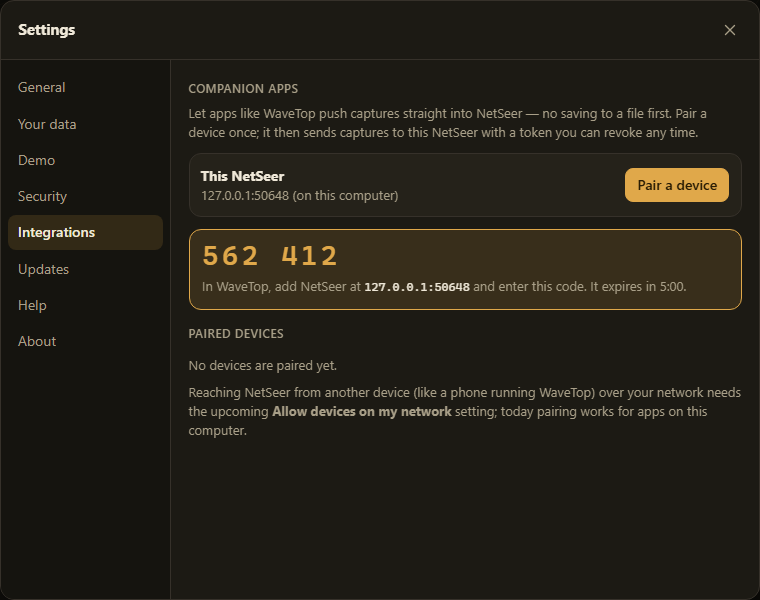
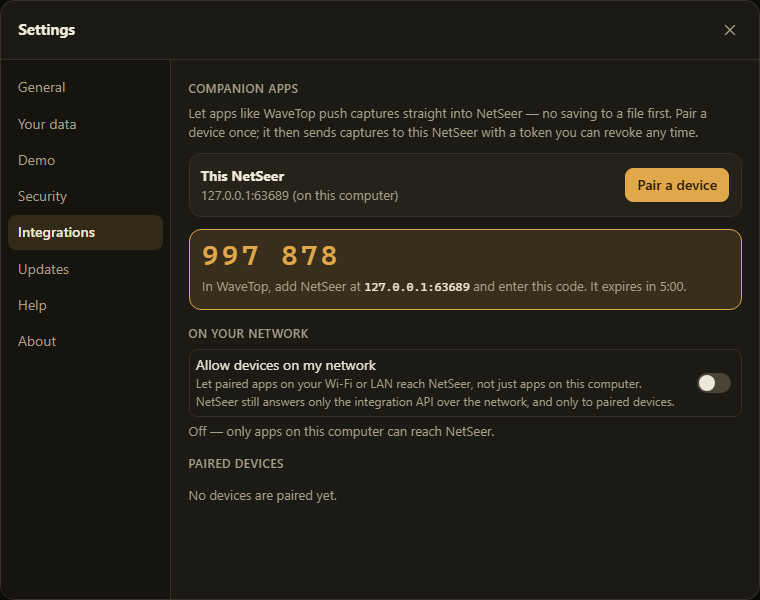
Integration API: opt-in LAN binding so apps on your network can reach NetSeer
Adds the 'Allow devices on my network' setting so a paired app on another
device (WaveTop on a phone) can pair and push over Wi-Fi/LAN — not just
apps on this computer.

- integration.py: persisted lan_enabled setting + lan_addresses().
- Launchers (cli.py, desktop.py) bind 0.0.0.0 when enabled, else loopback,
  and record NETSEER_BOUND_HOST.
- web.py: a LAN guard middleware that, only when actually bound to the LAN,
  limits non-local clients to the token-gated integration API (info, pair,
  ingest, live) — the UI and control endpoints stay local-only. The events
  WebSocket is local-only too. GET/POST /api/v1/network drive the setting.
- Settings → Integrations: an 'Allow devices on my network' toggle that
  shows the LAN address to use and a restart hint; pairing shows that
  address.
- Docs + screenshot refreshed; integration-api status updated.
- tests: the LAN guard allowlist, local bypass, loopback no-op, and the
  network setting (115 passed).

Verified live: toggled on, restarted, server bound 0.0.0.0, UI showed the
LAN address (192.168.66.19) and reachable state; events WS reconnected.

diff --git a/src/netseer/web/app.js b/src/netseer/web/app.js
@@ -4883,17 +4883,61 @@ async function receivePushedCapture(msg) {
 let pairTimer = null;
 const intgWhen = (sec) => (sec ? new Date(sec * 1000).toLocaleString(undefined, { dateStyle: "medium", timeStyle: "short" }) : "");
 
+let intgNet = { enabled: false, reachable: false, addresses: [], restart_needed: false };
+
 // These management calls only answer NetSeer's own window (see _guard_own_window in web.py).
-async function intgApi(path, { method = "GET" } = {}) {
-  const res = await fetch(`/api/v1${path}`, { method, headers: { "X-NetSeer-Window": "1" } });
+async function intgApi(path, { method = "GET", body } = {}) {
+  const headers = { "X-NetSeer-Window": "1" };
+  if (body !== undefined) headers["Content-Type"] = "application/json";
+  const res = await fetch(`/api/v1${path}`, { method, headers, body: body === undefined ? undefined : JSON.stringify(body) });
   if (res.status === 204) return null;
   return parseResponse(res);
 }
 
+// Where a companion app should reach this NetSeer: a network address when shared, else this computer.
+function pairAddress() {
+  if (intgNet.reachable && intgNet.addresses.length) {
+    return `${intgNet.addresses[0]}:${location.port || (location.protocol === "https:" ? "443" : "80")}`;
+  }
+  return location.host;
+}
+
 function renderIntegrations() {
-  el("intg-address").textContent = `${location.host} (on this computer)`;
   clearPairingCode();
+  renderNetwork();
   renderDevices();
+}
+
+async function renderNetwork() {
+  try {
+    intgNet = await intgApi("/network");
+  } catch {
+    intgNet = { enabled: false, reachable: false, addresses: [], restart_needed: false };
+  }
+  el("intg-lan").checked = !!intgNet.enabled;
+  el("intg-address").textContent =
+    intgNet.reachable && intgNet.addresses.length ? `${pairAddress()} (on your network)` : `${location.host} (on this computer)`;
+  const info = el("intg-lan-info");
+  if (!intgNet.enabled) {
+    info.textContent = "Off — only apps on this computer can reach NetSeer.";
+  } else if (intgNet.restart_needed) {
+    info.innerHTML = "On — <strong>restart NetSeer</strong> so devices on your network can reach it.";
+  } else if (intgNet.addresses.length) {
+    info.innerHTML = `On — companion apps can reach NetSeer at <code>${escapeHtml(pairAddress())}</code>.`;
+  } else {
+    info.textContent = "On — but NetSeer couldn't find a network address.";
+  }
+}
+
+async function setLan(enabled) {
+  try {
+    intgNet = await intgApi("/network", { method: "POST", body: { enabled } });
+    renderNetwork();
+    if (enabled && intgNet.restart_needed) toast("Restart NetSeer so devices on your network can reach it.", { timeout: 6000 });
+  } catch (err) {
+    toast(`Couldn't change network sharing: ${err.message || err}`, { error: true });
+    renderNetwork();
+  }
 }
 
 function clearPairingCode() {
@@ -4925,7 +4969,7 @@ function showPairingCode(code, seconds) {
     const mm = Math.floor(left / 60);
     const ss = String(left % 60).padStart(2, "0");
     box.innerHTML = `<div class="pair-code">${escapeHtml(digits)}</div>
-      <div class="hint">In WaveTop, add NetSeer at <code>${escapeHtml(location.host)}</code> and enter this code. It expires in ${mm}:${ss}.</div>`;
+      <div class="hint">In WaveTop, add NetSeer at <code>${escapeHtml(pairAddress())}</code> and enter this code. It expires in ${mm}:${ss}.</div>`;
   };
   paint();
   pairTimer = setInterval(() => {
@@ -5990,6 +6034,7 @@ function bindSettings() {
   });
   dialog.querySelectorAll(".settings-nav [data-pane]").forEach((b) => b.addEventListener("click", () => showSettingsPane(b.dataset.pane)));
   el("intg-pair").addEventListener("click", startPairing);
+  el("intg-lan").addEventListener("change", (e) => setLan(e.target.checked));
   dialog.addEventListener("close", clearPairingCode);
   dialog.querySelectorAll("[data-goto]").forEach((a) =>
     a.addEventListener("click", (e) => {

diff --git a/src/netseer/web/index.html b/src/netseer/web/index.html
@@ -556,10 +556,13 @@
               <button id="intg-pair" class="btn primary" type="button">Pair a device</button>
             </div>
             <div id="intg-code" class="intg-code hidden" role="status" aria-live="polite"></div>
+            <h3>On your network</h3>
+            <label class="switch-row"><span>Allow devices on my network<small>Let paired apps on your Wi-Fi or LAN reach NetSeer, not just apps on this computer. NetSeer still answers only the integration API over the network, and only to paired devices.</small></span>
+              <input id="intg-lan" type="checkbox" role="switch" /></label>
+            <p id="intg-lan-info" class="hint"></p>
             <h3>Paired devices</h3>
             <ul id="intg-devices" class="intg-devices"></ul>
             <p id="intg-empty" class="hint">No devices are paired yet.</p>
-            <p class="hint">Reaching NetSeer from another device (like a phone running WaveTop) over your network needs the upcoming <strong>Allow devices on my network</strong> setting; today pairing works for apps on this computer.</p>
           </section>
 
           <section class="settings-pane hidden" data-pane="updates" role="tabpanel">

diff --git a/src/netseer/web.py b/src/netseer/web.py
@@ -116,6 +116,37 @@ def _http_error(exc: Exception, status: int = 400) -> HTTPException:
     return HTTPException(status_code=status, detail=str(exc))
 
 
+LOOPBACK_CLIENTS = {"127.0.0.1", "::1", "localhost"}
+
+
+def bound_host() -> str:
+    """The address the server was launched on (set by the launcher); 127.0.0.1 unless on the LAN."""
+    return os.environ.get("NETSEER_BOUND_HOST", "127.0.0.1")
+
+
+def _client_is_local(request: Request) -> bool:
+    return bool(request.client) and request.client.host in LOOPBACK_CLIENTS
+
+
+def _lan_allowed_path(path: str) -> bool:
+    """Paths a paired companion app may reach from the LAN: discovery, pairing, and pushing."""
+    return path in {"/api/v1/info", "/api/v1/pair"} or path.startswith("/api/v1/ingest") or path.startswith("/api/v1/live")
+
+
+@app.middleware("http")
+async def lan_guard(request: Request, call_next):
+    """When exposed on the LAN, non-local clients may only reach the token-gated integration API.
+
+    The gate is only active when the server is actually bound to all interfaces (0.0.0.0) and this
+    isn't the public hosted copy. On a loopback bind no remote client can connect, so this is a
+    no-op — which also keeps it out of the way of the test client.
+    """
+    if not hosted_mode() and bound_host() == "0.0.0.0" and not _client_is_local(request):
+        if not integration.lan_enabled() or not _lan_allowed_path(request.url.path):
+            return JSONResponse({"detail": "This address only serves paired companion apps."}, status_code=403)
+    return await call_next(request)
+
+
 # Last time an open NetSeer page checked in (time.monotonic()), and when it said goodbye.
 # The desktop launcher's browser fallback uses this to quit once the tab is closed.
 PRESENCE: dict[str, float | None] = {"last": None, "bye": None}
@@ -491,7 +522,8 @@ def _own_page_ws(websocket: WebSocket) -> bool:
 @app.websocket("/api/v1/events")
 async def integration_events(websocket: WebSocket) -> None:
     """NetSeer's page subscribes here to hear when a companion app pushes a capture."""
-    if hosted_mode() or not _own_page_ws(websocket):
+    remote = bound_host() == "0.0.0.0" and not (websocket.client and websocket.client.host in LOOPBACK_CLIENTS)
+    if hosted_mode() or remote or not _own_page_ws(websocket):
         await websocket.close(code=1008)
         return
     await websocket.accept()
@@ -552,6 +584,34 @@ def revoke_paired_device(request: Request, device_id: str) -> Response:
     if not integration.revoke(device_id):
         raise HTTPException(status_code=404, detail="That device isn't paired.")
     return Response(status_code=204)
+
+
+def _network_state() -> dict:
+    enabled = integration.lan_enabled()
+    reachable = bound_host() == "0.0.0.0"
+    return {
+        "enabled": enabled,
+        "reachable": reachable,  # whether the socket is actually open on the network yet
+        "restart_needed": enabled != reachable,  # a restart rebinds the socket to match the setting
+        "addresses": integration.lan_addresses(),
+    }
+
+
+@app.get("/api/v1/network")
+def integration_network(request: Request) -> dict:
+    """LAN-sharing state, for Settings → Integrations (NetSeer's own window only)."""
+    _require_integration()
+    _guard_own_window(request)
+    return _network_state()
+
+
+@app.post("/api/v1/network")
+def set_integration_network(request: Request, body: dict) -> dict:
+    """Turn 'Allow devices on my network' on or off. Takes effect on the socket at the next restart."""
+    _require_integration()
+    _guard_own_window(request)
+    integration.set_lan_enabled(bool(body.get("enabled")))
+    return _network_state()
 
 
 @app.post("/api/v1/ingest/capture")

diff --git a/tests/test_integration.py b/tests/test_integration.py
@@ -19,6 +19,14 @@ def _client(monkeypatch, tmp_path):
     return webmod, TestClient(webmod.app, base_url="http://localhost")
 
 
+def _client_at(monkeypatch, tmp_path, client_addr):
+    monkeypatch.setenv("NETSEER_INTEGRATION_DIR", str(tmp_path / "integration"))
+    monkeypatch.delenv("NETSEER_HOSTED", raising=False)
+    import netseer.web as webmod
+
+    return webmod, TestClient(webmod.app, base_url="http://localhost", client=client_addr)
+
+
 def _pair(client, name="WaveTop"):
     start = client.post("/api/v1/pair/start", headers={"x-netseer-window": "1"})
     assert start.status_code == 200, start.text
@@ -150,3 +158,41 @@ def test_events_channel_closed_on_hosted_copy(monkeypatch, tmp_path):
     with pytest.raises(Exception):
         with client.websocket_connect("/api/v1/events") as ws:
             ws.receive_text()
+
+
+def test_network_setting_is_window_only(monkeypatch, tmp_path):
+    _, client = _client(monkeypatch, tmp_path)
+    assert client.get("/api/v1/network").status_code == 403
+    win = {"x-netseer-window": "1"}
+    assert client.get("/api/v1/network", headers=win).json()["enabled"] is False
+    res = client.post("/api/v1/network", json={"enabled": True}, headers=win).json()
+    assert res["enabled"] is True
+    from netseer import integration
+
+    assert integration.lan_enabled() is True
+
+
+def test_lan_guard_limits_non_local_clients(monkeypatch, tmp_path):
+    monkeypatch.setenv("NETSEER_BOUND_HOST", "0.0.0.0")
+    _, remote = _client_at(monkeypatch, tmp_path, ("192.168.1.9", 5000))
+    # LAN sharing off: a non-local client is blocked everywhere.
+    assert remote.get("/").status_code == 403
+    assert remote.get("/api/v1/info").status_code == 403
+    from netseer import integration
+
+    integration.set_lan_enabled(True)
+    # On: a non-local client reaches discovery/pairing/ingest only.
+    assert remote.get("/api/v1/info").status_code == 200
+    assert remote.get("/").status_code == 403  # the UI stays local-only
+    assert remote.get("/api/v1/devices", headers={"x-netseer-window": "1"}).status_code == 403  # management too
+    # A local client still reaches everything.
+    _, local = _client_at(monkeypatch, tmp_path, ("127.0.0.1", 5000))
+    assert local.get("/api/health").status_code == 200
+    assert local.get("/").status_code == 200
+
+
+def test_lan_guard_inactive_on_loopback_bind(monkeypatch, tmp_path):
+    monkeypatch.setenv("NETSEER_BOUND_HOST", "127.0.0.1")
+    _, remote = _client_at(monkeypatch, tmp_path, ("192.168.1.9", 5000))
+    # Bound to loopback, the guard is a no-op (nothing remote can really connect anyway).
+    assert remote.get("/api/v1/info").status_code == 200

diff --git a/src/netseer/integration.py b/src/netseer/integration.py
@@ -13,6 +13,7 @@ import hashlib
 import json
 import os
 import secrets
+import socket
 import threading
 import time
 from dataclasses import dataclass
@@ -45,6 +46,58 @@ def integration_dir() -> Path:
 
 def _store() -> Path:
     return integration_dir() / "devices.json"
+
+
+def _settings_path() -> Path:
+    return integration_dir() / "settings.json"
+
+
+SETTINGS_DEFAULTS = {"lan_enabled": False}
+
+
+def settings() -> dict:
+    try:
+        data = json.loads(_settings_path().read_text("utf-8"))
+    except (OSError, ValueError):
+        data = {}
+    return {**SETTINGS_DEFAULTS, **(data if isinstance(data, dict) else {})}
+
+
+def lan_enabled() -> bool:
+    """Whether the user has opted to let devices on the local network reach the integration API."""
+    return bool(settings().get("lan_enabled"))
+
+
+def set_lan_enabled(on: bool) -> dict:
+    with _lock:
+        data = settings()
+        data["lan_enabled"] = bool(on)
+        tmp = _settings_path().with_suffix(".tmp")
+        tmp.write_text(json.dumps(data, indent=2), "utf-8")
+        tmp.replace(_settings_path())
+    return data
+
+
+def lan_addresses() -> list[str]:
+    """This machine's non-loopback IPv4 addresses, for telling a companion app where to reach NetSeer."""
+    ips: set[str] = set()
+    try:
+        for info in socket.getaddrinfo(socket.gethostname(), None, socket.AF_INET):
+            ip = info[4][0]
+            if not ip.startswith("127."):
+                ips.add(ip)
+    except OSError:
+        pass
+    try:  # the primary outbound interface, even when the hostname doesn't resolve to it
+        probe = socket.socket(socket.AF_INET, socket.SOCK_DGRAM)
+        probe.connect(("192.0.2.1", 1))  # TEST-NET-1: routed but never answered, so nothing is sent
+        ip = probe.getsockname()[0]
+        probe.close()
+        if not ip.startswith("127."):
+            ips.add(ip)
+    except OSError:
+        pass
+    return sorted(ips)
 
 
 def _hash(token: str) -> str:

diff --git a/src/netseer/cli.py b/src/netseer/cli.py
@@ -5,6 +5,7 @@ import os
 
 import uvicorn
 
+from netseer import integration
 from netseer.brand import MOTTO, PRODUCT_NAME
 
 
@@ -29,4 +30,11 @@ def main() -> None:
     parser.add_argument("--host", default=DEFAULT_HOST, help="Bind address (default 127.0.0.1; 0.0.0.0 exposes it to the LAN)")
     parser.add_argument("--port", type=int, default=default_port(), help="Bind port (default $PORT, else 47331)")
     args = parser.parse_args()
-    uvicorn.run("netseer.web:app", host=args.host, port=args.port, log_level="info")
+    host = args.host
+    # Honor "Allow devices on my network" (Settings → Integrations) unless --host was given or this
+    # is the public hosted copy. The LAN guard in web.py still limits non-local clients to the API.
+    hosted = os.environ.get("NETSEER_HOSTED", "").strip().lower() in {"1", "true", "yes", "on"}
+    if host == DEFAULT_HOST and not hosted and integration.lan_enabled():
+        host = "0.0.0.0"
+    os.environ["NETSEER_BOUND_HOST"] = host
+    uvicorn.run("netseer.web:app", host=host, port=args.port, log_level="info")

diff --git a/src/netseer/desktop.py b/src/netseer/desktop.py
@@ -216,8 +216,14 @@ class ServerThread(threading.Thread):
         from netseer.web import app
 
         self.port = port
+        from netseer import integration
+
+        # Expose on the LAN only when the user opted in (Settings → Integrations); the LAN guard in
+        # web.py still limits non-local clients to the token-gated integration API.
+        host = "0.0.0.0" if integration.lan_enabled() else "127.0.0.1"
+        os.environ["NETSEER_BOUND_HOST"] = host
         # log_config=None: uvicorn's default config writes to a console the .exe doesn't have.
-        config = uvicorn.Config(app, host="127.0.0.1", port=port, log_config=None, access_log=False, log_level="info")
+        config = uvicorn.Config(app, host=host, port=port, log_config=None, access_log=False, log_level="info")
         self.server = uvicorn.Server(config)
 
     def run(self) -> None:

diff --git a/docs/netseer-how-to.md b/docs/netseer-how-to.md
@@ -49,7 +49,7 @@ The **cog** in the top bar. A dot on it means a newer release is out.
 | **Your data** | Count of saved maps and devices; whether storage is protected from automatic cleanup, with **Protect my maps** if not; **Back up all maps** (one JSON file with maps, names, notes, edits, positions, and preferences); **Restore a backup…** (replaces what's saved here; asks first); **Clear all data…** (asks first) |
 | **Demo** | The sample captures, each with **Open** (or **Show** once opened); **Compare the branch office samples** opens a pair a week apart and sets up **Compare surveys** |
 | **Security** | The vulnerability data for the Security findings (bundled, or downloaded), with its date; **Update database** (installed copies, highlighted when you're online) downloads the latest from NVD, FIRST EPSS, and CISA, and looks up products seen in your captures that aren't recognized yet, sending only product names |
-| **Integrations** | Pair companion apps (like WaveTop) so they can push captures straight into NetSeer with no file to save. **Pair a device** shows a one-time code to enter in the app; paired devices are listed with when they were added and last used, each with **Revoke**. Installed/source copies only; pairing over the network is coming |
+| **Integrations** | Pair companion apps (like WaveTop) so they can push captures straight into NetSeer with no file to save. **Pair a device** shows a one-time code to enter in the app; paired devices are listed with when they were added and last used, each with **Revoke**. **Allow devices on my network** lets paired apps on your Wi-Fi/LAN reach NetSeer (off by default; takes effect after a restart, and your OS firewall may ask to allow it); over the network NetSeer answers only the token-gated integration API, never the full UI. Installed/source copies only |
 | **Updates** | Version and install type; **Check for updates**; **Check when NetSeer opens** (off by default, at most once a day); the current release and any newer ones, each with **Release notes** and **Reinstall** or **Update**; older ones are folded under **Earlier versions**: pick one from the list for its **Release notes** and **Roll back**. In the desktop app these open the update wizard: release notes and an optional backup, then a download checked against GitHub's SHA-256, then **Restart and update** (NetSeer closes, installs, and reopens). From source, the button copies a `uv tool install --force` command for that version. The online copy updates itself and shows no list. |
 | **Help** | **Take the tour**, **Keyboard shortcuts**, the user guide, **Report a problem** (a new GitHub issue with your version filled in) |
 | **About** | Version, how NetSeer is running, links, and component licenses |

diff --git a/docs/user-guide.md b/docs/user-guide.md
@@ -348,7 +348,7 @@ Click the **cog** at the right of the top bar. A dot on the cog means a newer ve
 
 ![Settings, Your data: a summary, Back up all maps, Restore a backup, and Clear all data](images/settings-data.png)
 
-**Integrations.** Pair companion apps — such as WaveTop — so they can push captures straight into NetSeer, with no file to save and open. **Pair a device** shows a one-time code to type into the app; paired devices are listed with when you added them and last used each, and a **Revoke** button removes access. It's on installed and source copies, not the public online one; pairing over your network is coming.
+**Integrations.** Pair companion apps — such as WaveTop — so they can push captures straight into NetSeer, with no file to save and open. **Pair a device** shows a one-time code to type into the app; paired devices are listed with when you added them and last used each, and a **Revoke** button removes access. Turn on **Allow devices on my network** to let a paired app on another device (like a phone running WaveTop) reach NetSeer over your Wi-Fi or LAN — it's off by default, takes effect after you restart NetSeer, and your operating system's firewall may ask you to allow it the first time. Even then, NetSeer answers only the integration API over the network, and only to paired devices; the map and the rest of the app stay on your computer. It's on installed and source copies, not the public online one.
 
 ![Settings, Integrations: a pairing code and the paired devices list](images/settings-integrations.png)
 

diff --git a/docs/integration-api.md b/docs/integration-api.md
@@ -20,9 +20,10 @@ pipeline ([`graph.py`](../src/netseer/graph.py)); they are independent of the wi
 | Capture push (`POST /api/v1/ingest/capture`) | **shipped** — becomes a normal reading job |
 | Surfacing a pushed capture in the running UI (`WS /api/v1/events`) | **shipped** — the map opens on its own |
 | Settings → Integrations UI (pairing code + device list + revoke) | **shipped** |
+| LAN binding toggle (**Allow devices on my network**) — pair/push over the network | **shipped** |
 | Live-view WebSocket session | planned |
 | AI analysis | planned |
-| mDNS discovery, LAN binding toggle (pair over the network) | planned |
+| mDNS discovery (auto-find NetSeer on the network) | planned |
 
 ## Principles
 
